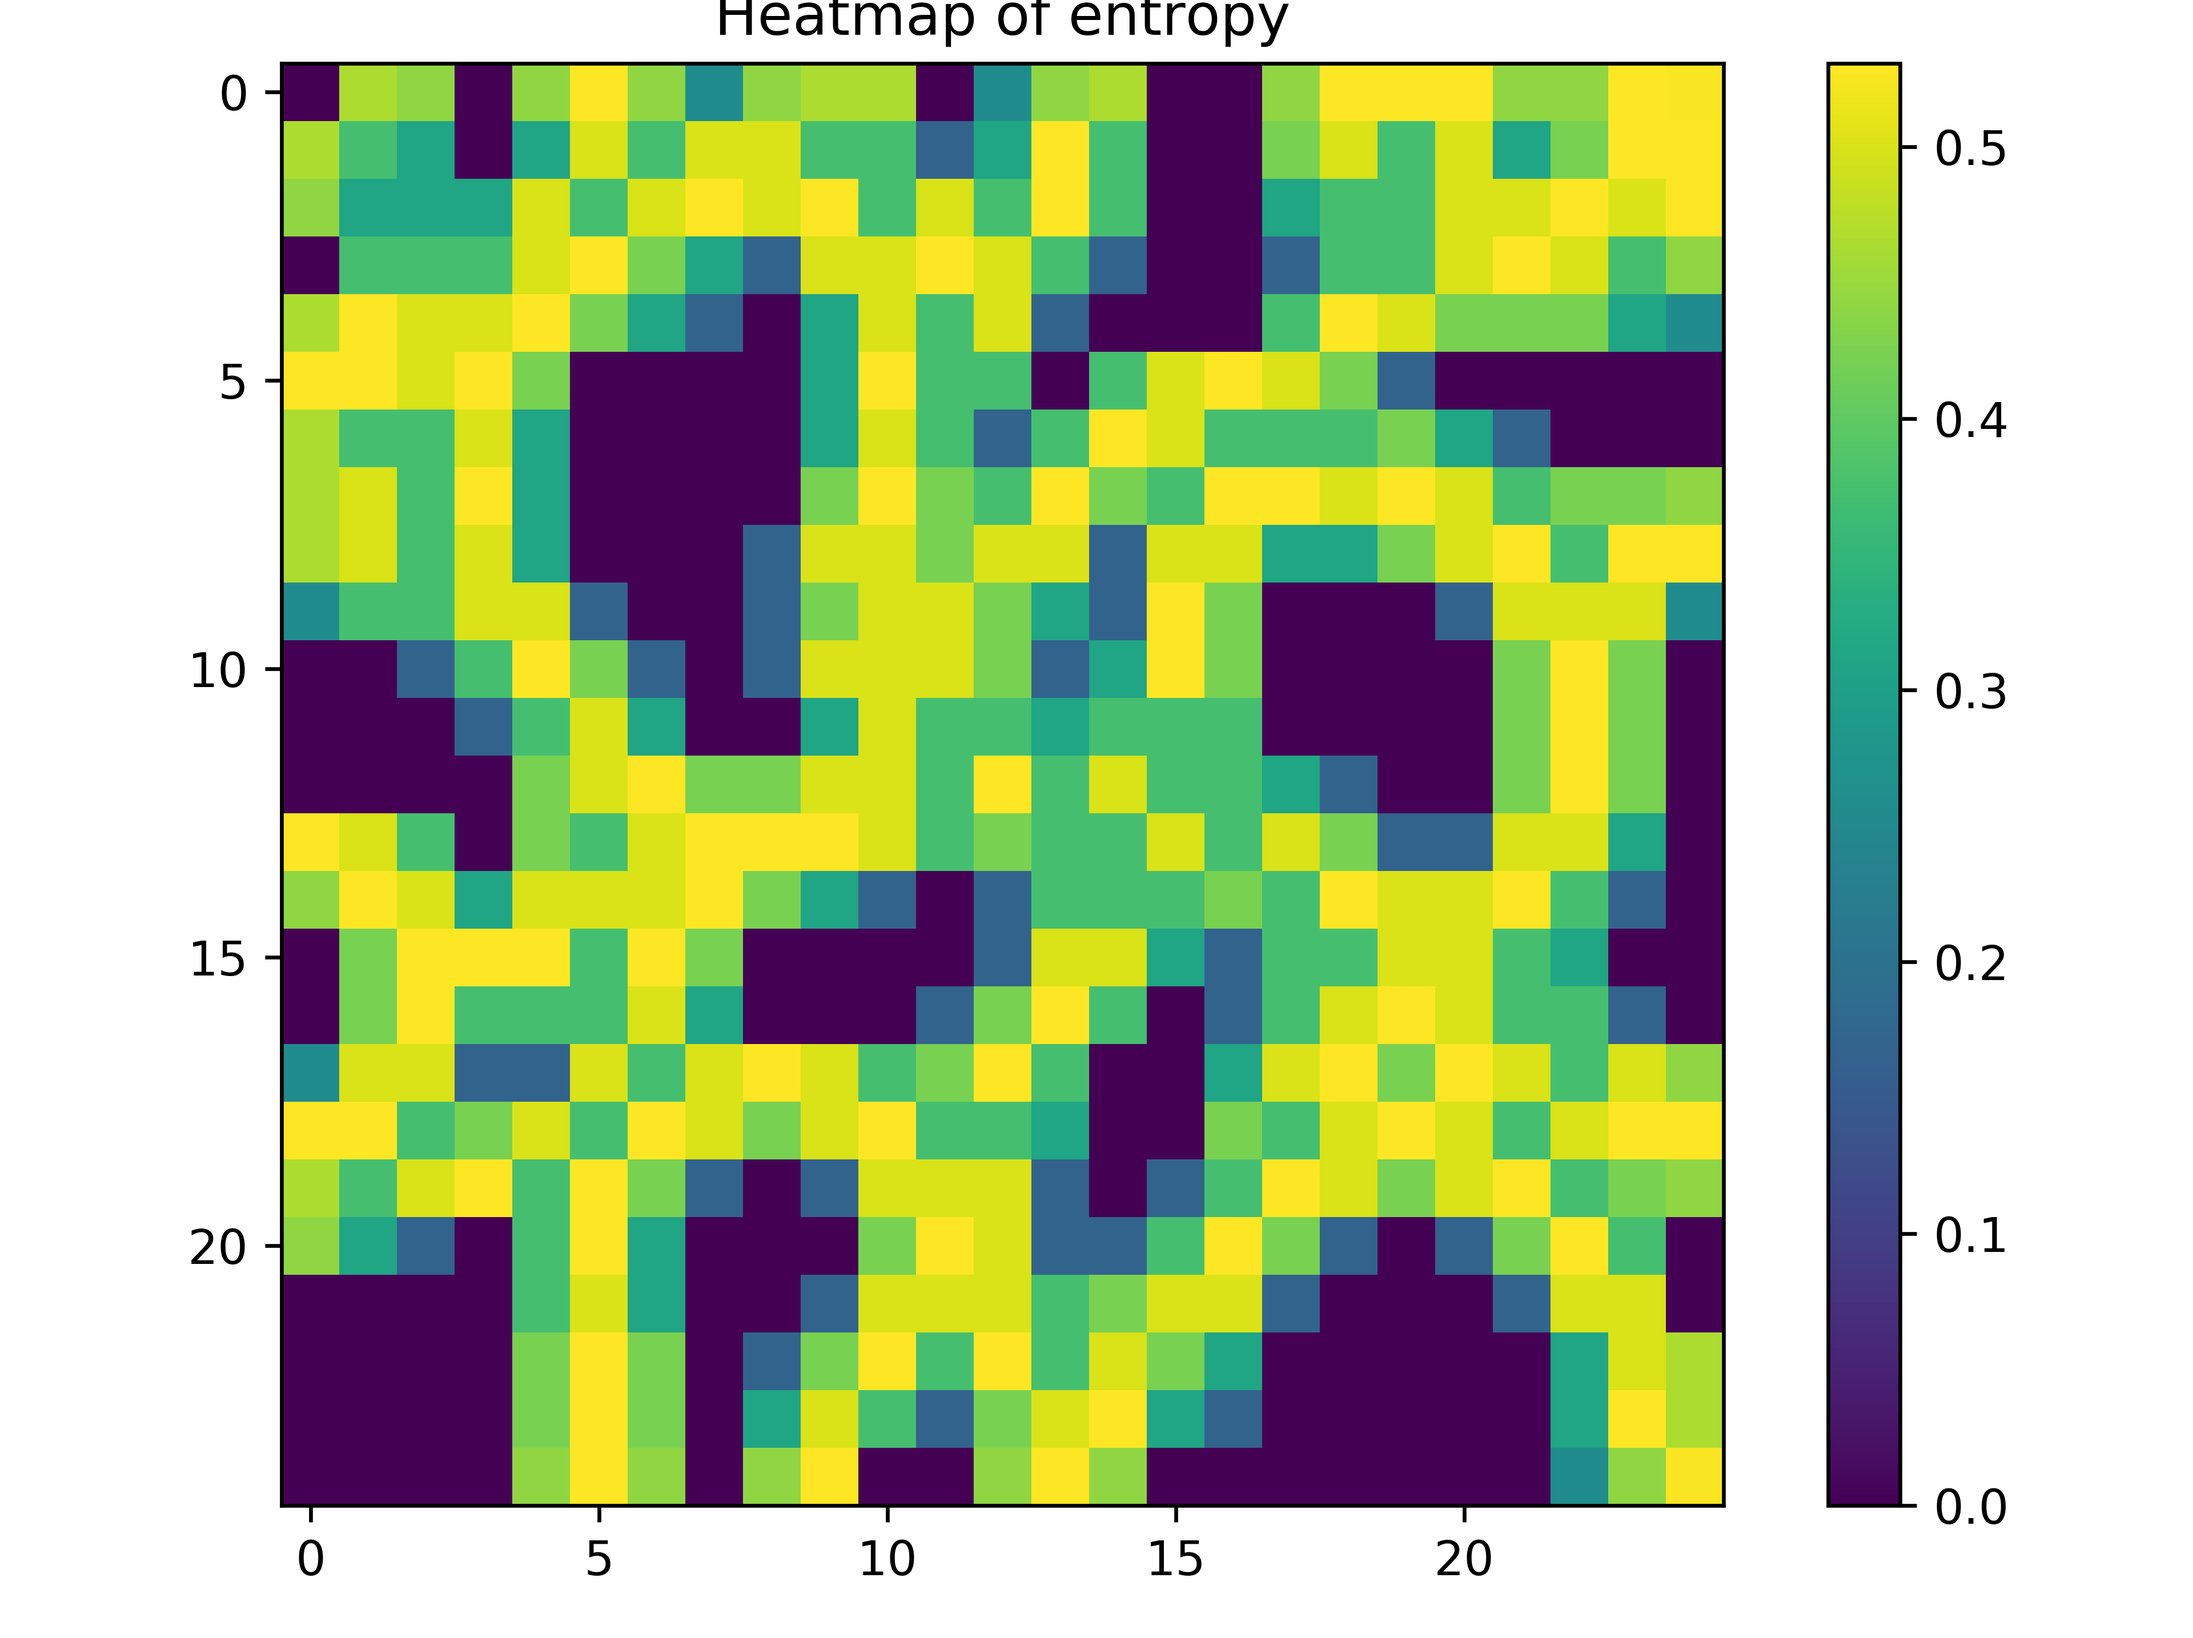
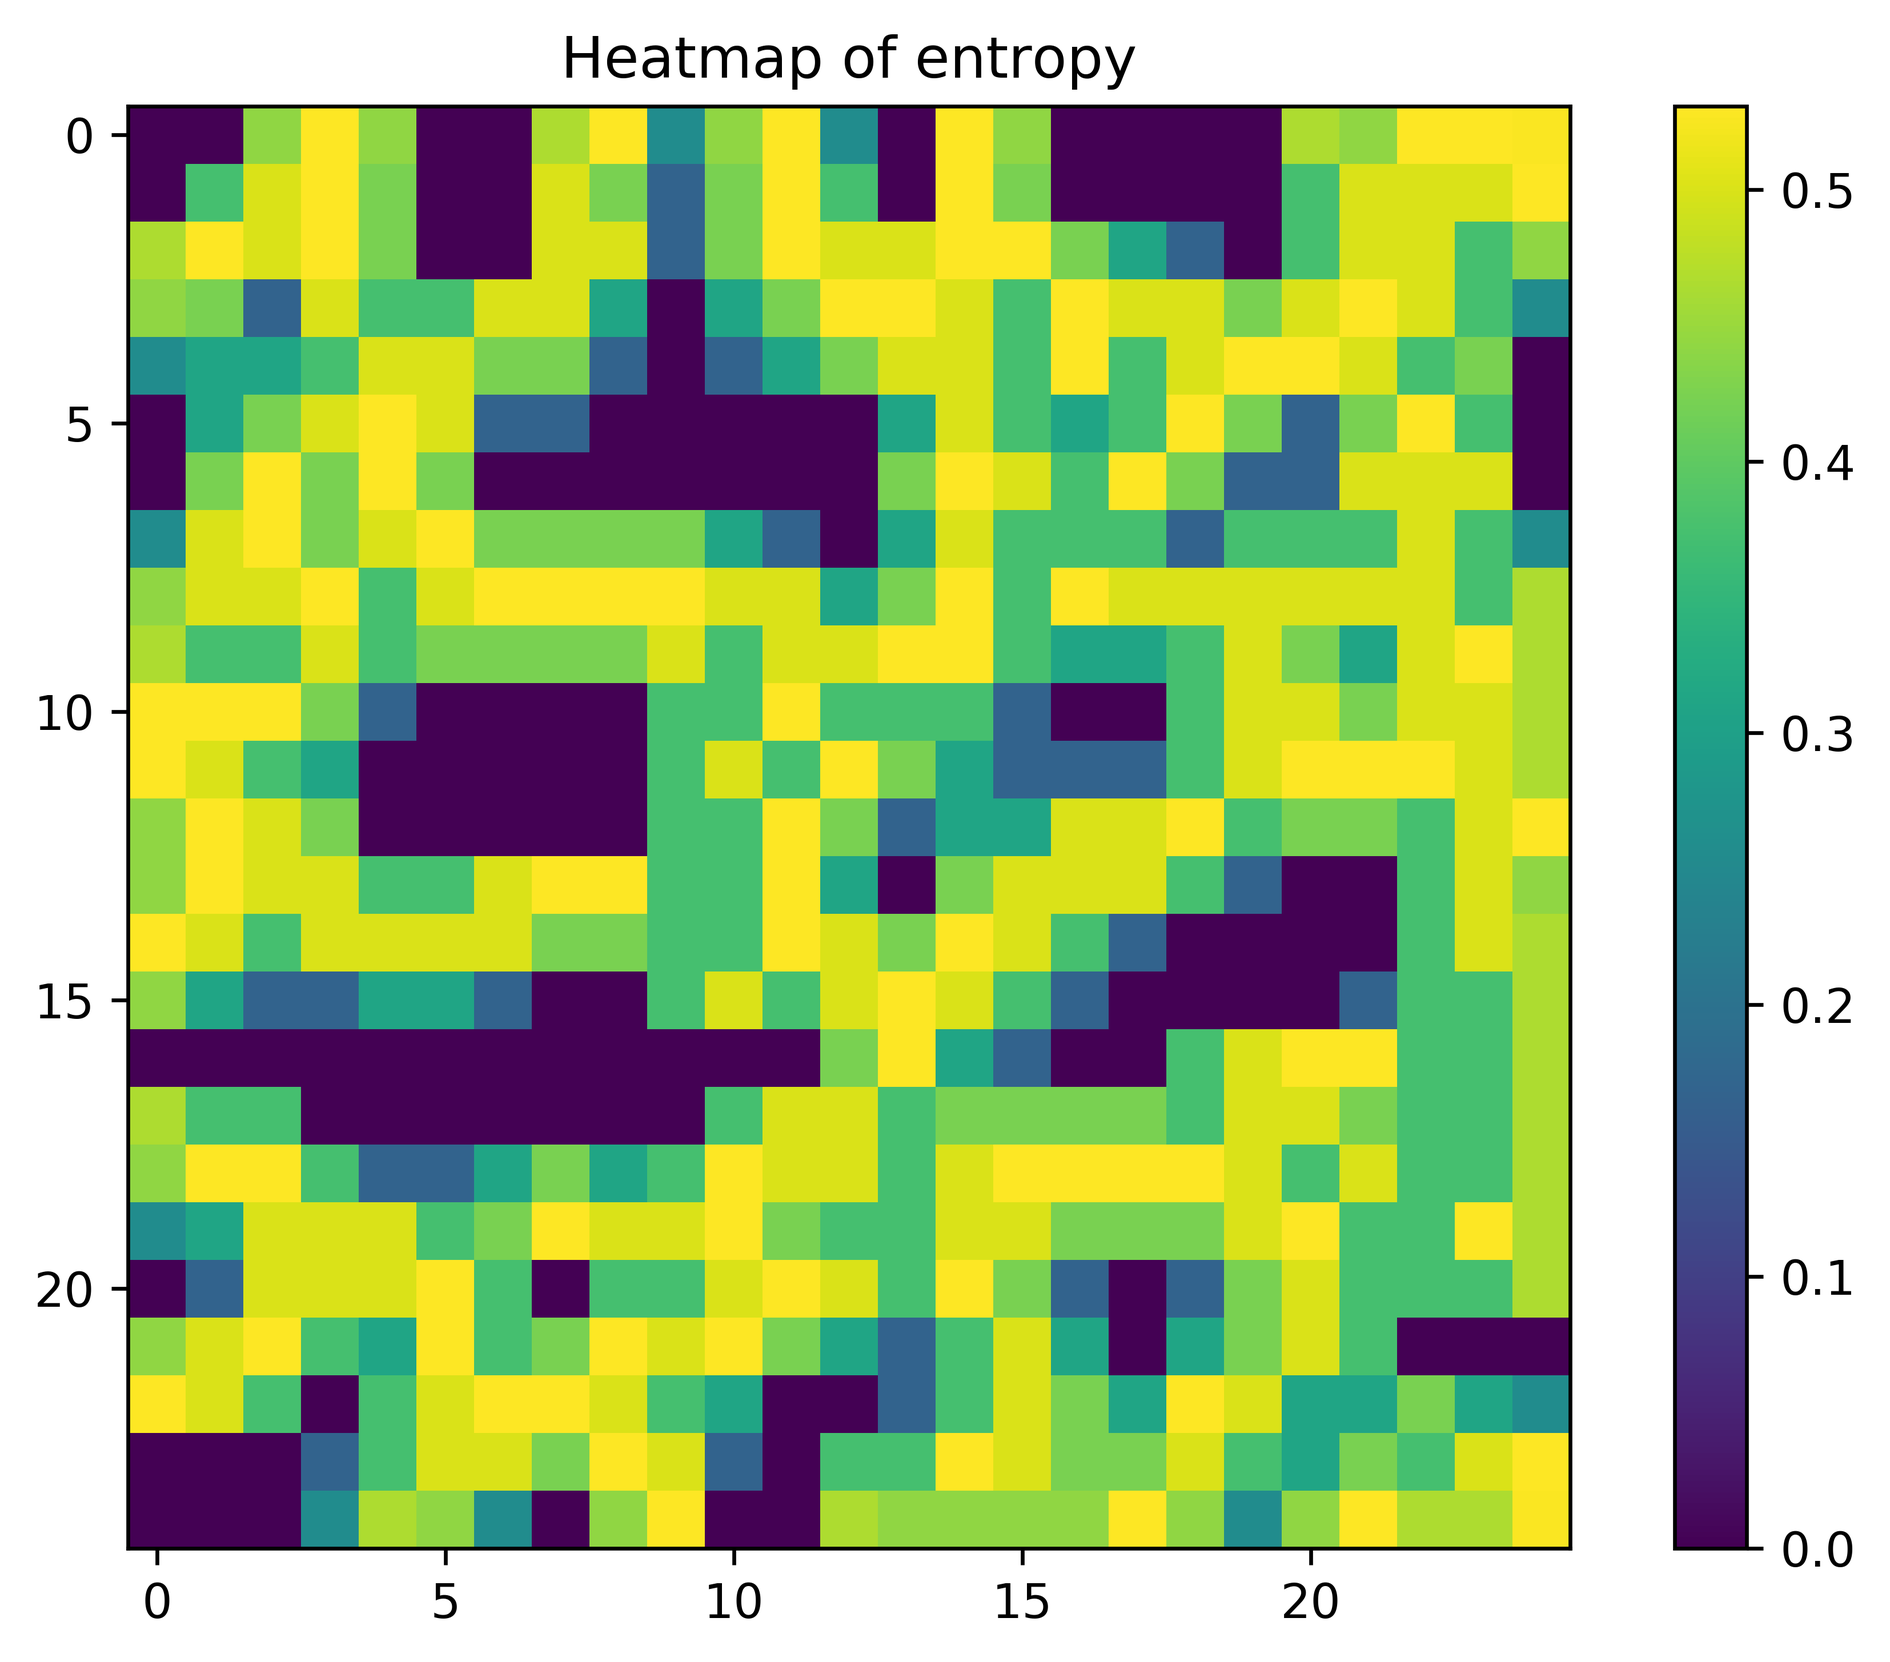
Plots etc. From experiment 1

diff --git a/main.py b/main.py
@@ -389,18 +389,18 @@ Probability = 0.3
 Costs = 1:1 2:2 3:3 4:4
 '''      
 
-    
+plt.clf()
 grid = Grid(25, 0.3)
 grid(150, False, True) 
-plt.savefig('exp1_6_Grid.png', dpi=600)
+plt.savefig('exp1_6_Grid.png', dpi=600, bbox_inches='tight')
 input("Press Enter to continue...")
 plt.clf()
 grid.plotTotalEntropy()
-plt.savefig('exp1_6_Entropy.png', dpi=600)
+plt.savefig('exp1_6_Entropy.png', dpi=600, bbox_inches='tight')
 input("Press Enter to continue...")
 plt.clf()
 grid.createHeatMap()
-plt.savefig('exp1_6_Heatmap', dpi=600)
+plt.savefig('exp1_6_Heatmap', dpi=600, bbox_inches='tight')
 plt.clf()
 
 #grid.goGreen(13,13)
